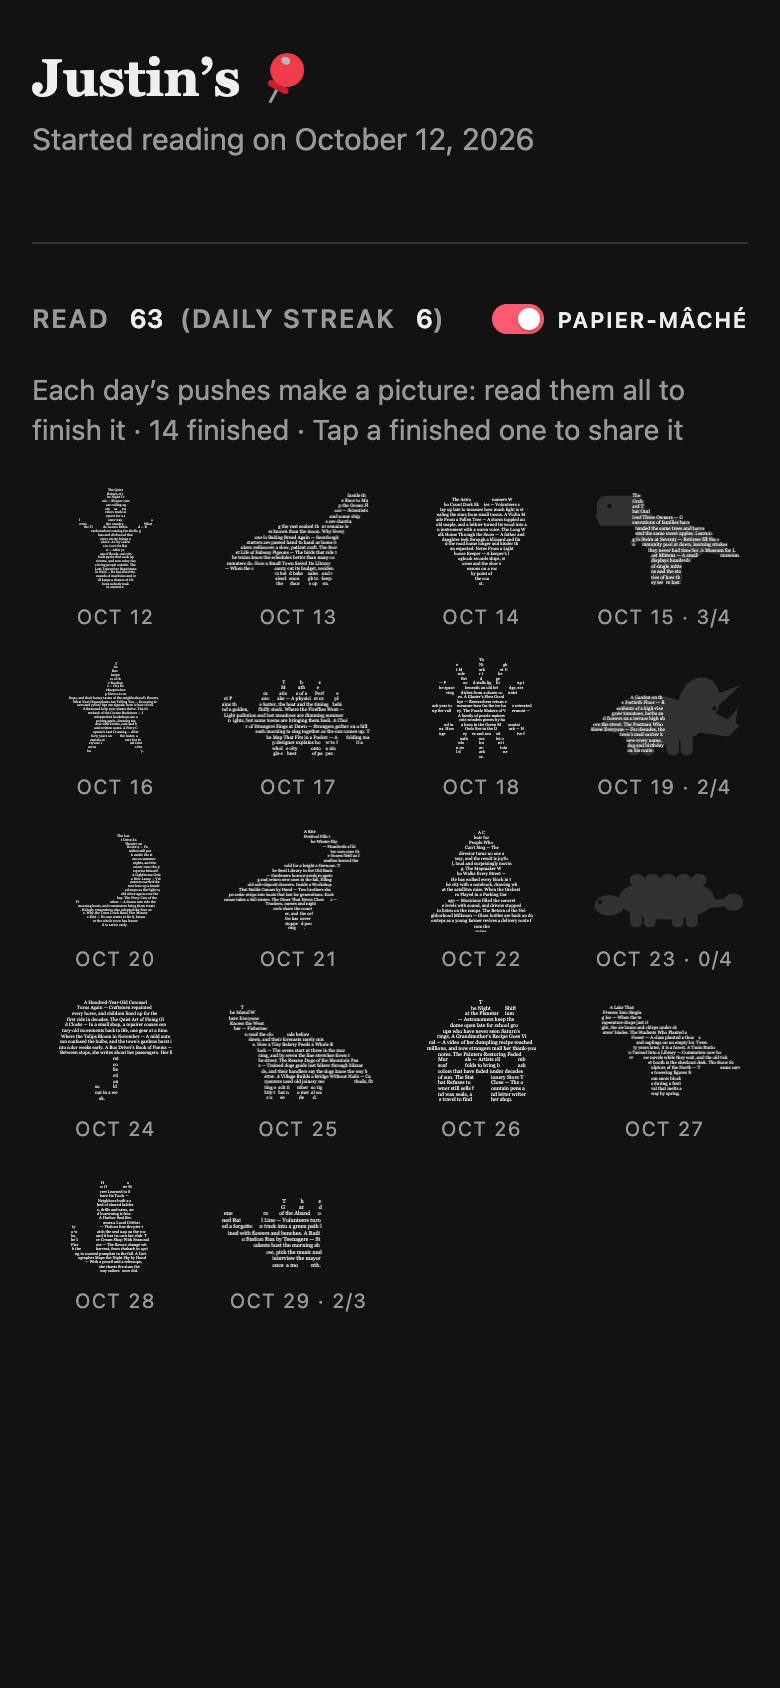
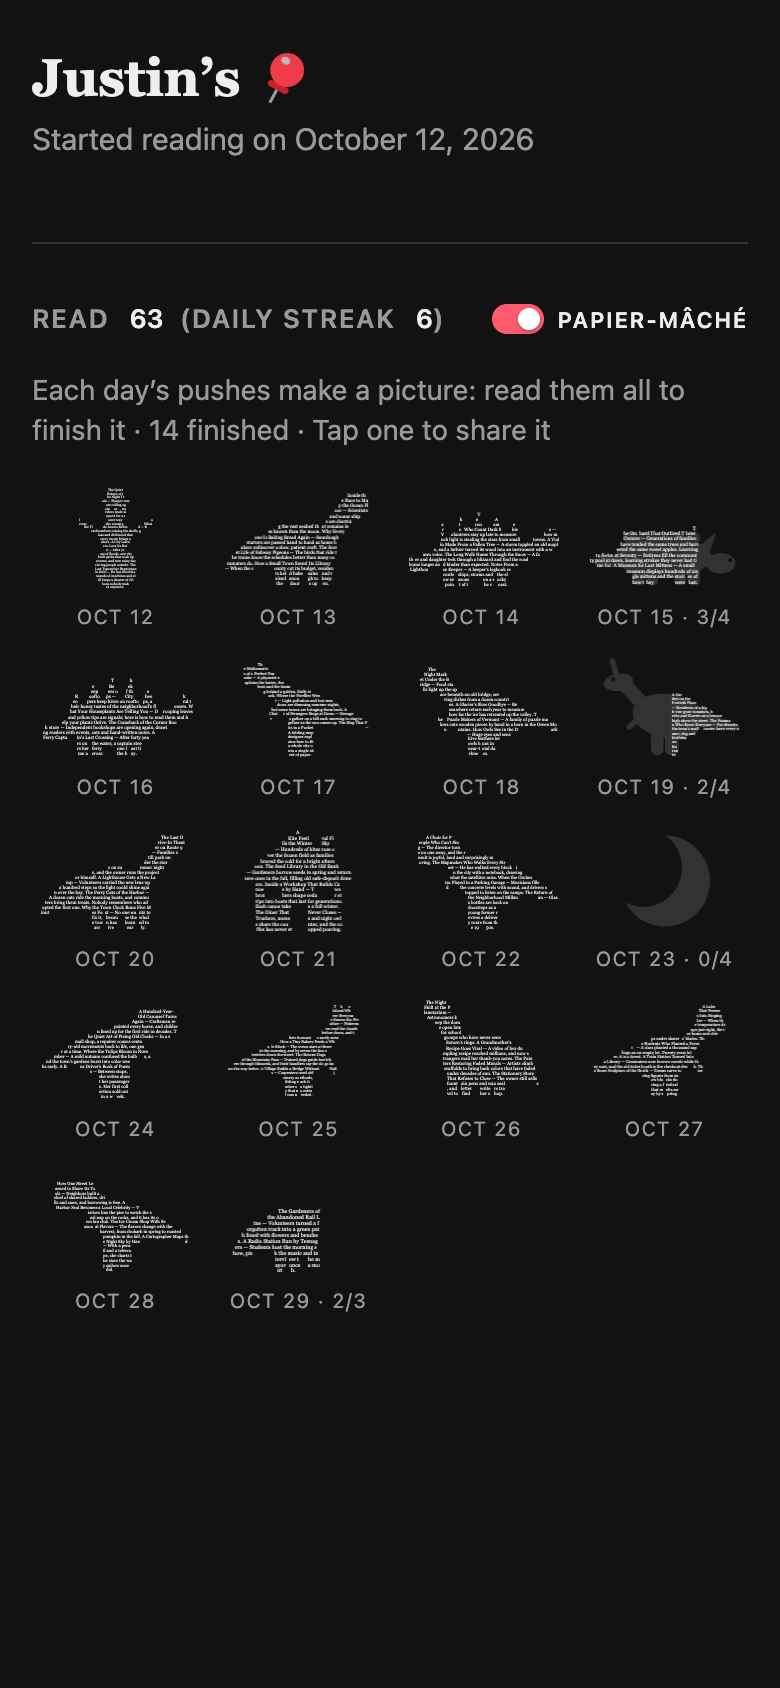
Daily pictures: the date picks the shape (same for everyone that day, snowman and Brontosaurus first, then a fixed shuffle); any day with reads can be shared (unfinished: the revealed part); die-cut traced around the solid shape (no dark lines under the house's door)

diff --git a/src/pushpin/cards.py b/src/pushpin/cards.py
@@ -21,7 +21,6 @@ heavy). /u/<slug> is the profile for anyone with the link: the count and list on
 """
 
 import argparse
-import hashlib
 import html
 import json
 import os
@@ -289,7 +288,7 @@ def profile_page(reader: dict, read: list[dict], owner: bool, share_url: str = "
     # Read n (Daily streak d), with the Papier-mâché switch on the right, then the list. A private
     # list on a public link shows only that header: no titles, so no switch and no dinosaurs.
     shown = owner or public  # Papier-mâché only uses titles the page already shows
-    switch, hint, gallery = papier(read, days, papier_seed(reader), today or date.today()) if shown else ("", "", "")
+    switch, hint, gallery = papier(read, days, today or date.today()) if shown else ("", "", "")
     head = f'<div class="readhead"><h2>Read <span class="n">{n}</span>{on_a_roll}</h2>{switch}</div>'
     articles = (f'<div class="readpanel">{head}{hint}<ul class="list">{"".join(item(a, owner) for a in read)}</ul>'
                 f'{gallery}</div>' if read
@@ -473,8 +472,9 @@ const SYMBOLS = {
     L(c, 7, 100, 62, 100, 112); c.lineWidth = 7; c.beginPath(); c.arc(88, 112, 12, 0, Math.PI); c.stroke();
     return null;
   },
-  house(c) {
+  house(c, p) {
     R(c, 130, 14, 16, 34, 1); P(c, 100, 4, 172, 62, 28, 62); R(c, 44, 58, 112, 68, 2);
+    if (p.solid) return null;  // the sticker's die-cut: the whole house, door and windows on white
     c.globalCompositeOperation = 'destination-out'; R(c, 90, 90, 22, 36, 2); R(c, 56, 72, 22, 20, 2); R(c, 124, 72, 22, 20, 2);
     c.globalCompositeOperation = 'source-over'; return null;
   },
@@ -567,11 +567,9 @@ const KINDS = (() => {
   }
   return out;
 })();
-// Each reader's own herd: a seed from the reader shuffles the species into their own order and
-// stretches each dinosaur's proportions a little (the knobs below, 0.92-1.08x), so no two readers'
-// dinosaurs match. Without a seed (the demo), the fixed order above and the knobs as drawn.
-const JITTER = {sauropod: ['bulk', 'neck', 'tail', 'head'], theropod: ['bulk', 'head', 'neck', 'arm'],
-  stegosaur: ['plates'], ankylosaur: ['bumps'], ceratopsian: ['frill', 'brow', 'nose', 'bulk'], hadrosaur: ['bulk']};
+// The same picture for everyone on a given day: the date picks the shape, from one fixed order
+// that starts with the snowman and a Brontosaurus on Oct 12, 2026, then the rest shuffled once, so
+// every shape comes up before any repeats. What differs between readers is the words.
 function rng(str) {  // a small seeded generator (string hash + mulberry32): the same seed, the same numbers
   let h = 1779033703 ^ str.length;
   for (let i = 0; i < str.length; i++) { h = Math.imul(h ^ str.charCodeAt(i), 3432918353); h = h << 13 | h >>> 19; }
@@ -580,30 +578,40 @@ function rng(str) {  // a small seeded generator (string hash + mulberry32): the
     t = t + Math.imul(t ^ t >>> 7, 61 | t) ^ t; return ((t ^ t >>> 14) >>> 0) / 4294967296;
   };
 }
-function herd(seed) {
-  if (!seed) return k => KINDS[k % KINDS.length];
-  const order = KINDS.slice(), r = rng(seed);
-  for (let i = order.length - 1; i > 0; i--) { const j = Math.floor(r() * (i + 1)); [order[i], order[j]] = [order[j], order[i]]; }
-  return k => {
-    const kind = order[k % order.length], rk = rng(seed + ':' + k), knobs = {...kind.knobs};
-    for (const key of JITTER[kind.plan] || []) knobs[key] = (knobs[key] ?? 1) * (0.92 + 0.16 * rk());
-    return {...kind, knobs};
-  };
-}
+const ORDER = (() => {
+  const first = ['Snowman', 'Brontosaurus'].map(n => KINDS.find(k => k.name === n));
+  const rest = KINDS.filter(k => !first.includes(k)), r = rng('pushpin:order');
+  for (let i = rest.length - 1; i > 0; i--) { const j = Math.floor(r() * (i + 1)); [rest[i], rest[j]] = [rest[j], rest[i]]; }
+  return [...first, ...rest];
+})();
+const EPOCH = Date.UTC(2026, 9, 12);
+const kindFor = day => {  // day: YYYY-MM-DD
+  const n = Math.round((Date.UTC(+day.slice(0, 4), +day.slice(5, 7) - 1, +day.slice(8, 10)) - EPOCH) / 864e5);
+  return ORDER[((n % ORDER.length) + ORDER.length) % ORDER.length];
+};
 // ---- end species ----
-function dino(c, w, h, flip, kind) {
+function dino(c, w, h, flip, kind, solid = false) {  // solid: no holes (eyes, door, windows), for a die-cut
   c.save();
   const s = Math.min(w / 200, h / 130);
   c.translate((w - 200 * s) / 2, (h - 130 * s) / 2);
   if (flip) { c.translate(200 * s, 0); c.scale(-1, 1); }
   c.scale(s, s);
   c.fillStyle = c.strokeStyle = '#000';
-  const eye = PLANS[kind.plan](c, kind.knobs);  // [x, y], a list of them, or null
+  const eye = solid ? (PLANS[kind.plan](c, {...kind.knobs, solid}), null) : PLANS[kind.plan](c, kind.knobs);  // [x, y], a list, or null
   c.globalCompositeOperation = 'destination-out';
   for (const [x, y] of eye ? (Array.isArray(eye[0]) ? eye : [eye]) : []) { c.beginPath(); c.arc(x, y, 2.8, 0, 7); c.fill(); }
   c.restore();
 }
 // Lays the words out inside the dinosaur's silhouette, w x h: [char, x, y] for each glyph.
+// Unfinished: only part of the shape is revealed, from one side, as far as the day's pushes have
+// been read. Returns the test for the revealed part and where it ends (x), or null when it's whole.
+function revealed(shape, W, H, built, flip) {
+  if (built >= 1) return {inside: shape, edge: null};
+  let x0 = W, x1 = 0;
+  for (let y = 0; y < H; y += 2) for (let x = 0; x < W; x++) if (shape(x, y)) { x0 = Math.min(x0, x); x1 = Math.max(x1, x); }
+  const edge = flip ? x1 - (x1 - x0) * built : x0 + (x1 - x0) * built;
+  return {inside: (x, y) => shape(x, y) && (flip ? x >= edge : x <= edge), edge};
+}
 // Where the shape is, w x h: a test for whether a pixel is inside it.
 function silhouette(w, h, flip, kind) {
   const m = document.createElement('canvas'); m.width = w; m.height = h;
@@ -689,12 +697,8 @@ function draw(canvas, text, built, flip, animate, kind, delay, past) {
     lines.forEach((line, k) => c.fillText(line, W / 2, H / 2 + (k - (lines.length - 1) / 2) * size * 1.25));
     return;
   }
-  // Unfinished: only part of the shape is revealed, from one side, as far as the day's pushes have
-  // been read, and the read text fills just that part. Nothing else shows, so it's a guess what it is.
-  let x0 = W, x1 = 0;
-  for (let y = 0; y < H; y += 2) for (let x = 0; x < W; x++) if (shape(x, y)) { x0 = Math.min(x0, x); x1 = Math.max(x1, x); }
-  const edge = flip ? x1 - (x1 - x0) * built : x0 + (x1 - x0) * built;
-  const inside = built >= 1 ? shape : (x, y) => shape(x, y) && (flip ? x >= edge : x <= edge);
+  // Unfinished: only part of the shape is revealed (see revealed), and the read text fills just that part.
+  const inside = revealed(shape, W, H, built, flip).inside;
   const {glyphs, fs} = fitted(W, H, text, inside, Math.round(W / 4));
   c.font = fs + 'px Georgia, "Times New Roman", serif'; c.textBaseline = 'middle'; c.fillStyle = ink;
   const start = performance.now() + delay, sweep = animate ? 600 : 0, fade = animate ? 240 : 0;
@@ -725,8 +729,8 @@ let pinImage = null;
 const pinIcon = () => pinImage ??= new Promise(ok => {
   const im = new Image(); im.onload = () => ok(im); im.onerror = () => ok(null); im.src = '/icon.png';
 });
-async function sticker(day, kind) {
-  const W = 1200, H = 768, shape = silhouette(W, H, day.flip, kind);
+async function sticker(day, kind, built = 1) {  // an unfinished day: just the part revealed so far
+  const W = 1200, H = 768, {inside: shape, edge} = revealed(silhouette(W, H, day.flip, kind), W, H, built, day.flip);
   const {glyphs, fs} = fitted(W, H, day.text, shape, Math.round(W / 4));
   let x0 = W, x1 = 0, y0 = H, y1 = 0;
   for (let y = 0; y < H; y += 2) for (let x = 0; x < W; x += 2) if (shape(x, y)) {
@@ -735,7 +739,8 @@ async function sticker(day, kind) {
   const B = 26, P = B + 34, ox = P - x0, oy = P - y0;  // border, then room for the shadow
   const out = document.createElement('canvas'); out.width = x1 - x0 + 2 * P; out.height = y1 - y0 + 2 * P;
   const mask = document.createElement('canvas'); mask.width = W; mask.height = H;
-  dino(mask.getContext('2d'), W, H, day.flip, kind);
+  const mc = mask.getContext('2d'); dino(mc, W, H, day.flip, kind, true);  // traced around the solid shape
+  if (edge !== null) day.flip ? mc.clearRect(0, 0, edge, H) : mc.clearRect(edge, 0, W - edge, H);
   const cut = document.createElement('canvas'); cut.width = out.width; cut.height = out.height;
   const cc = cut.getContext('2d');
   for (let a = 0; a < 48; a++) cc.drawImage(mask, ox + B * Math.cos(a * Math.PI / 24), oy + B * Math.sin(a * Math.PI / 24));
@@ -751,7 +756,7 @@ async function sticker(day, kind) {
   return out;
 }
 let sheet = null;
-function share(day, kind) {
+function share(day, kind, built = 1) {
   if (!sheet) {
     sheet = document.createElement('dialog'); sheet.className = 'sharecard';
     sheet.innerHTML = '<button type="button" class="x" aria-label="Close">×</button><img alt="">'
@@ -762,10 +767,10 @@ function share(day, kind) {
     document.body.append(sheet);
   }
   const img = sheet.querySelector('img'), go = sheet.querySelector('.go'), save = sheet.querySelector('.save'), copy = sheet.querySelector('.copy');
-  img.removeAttribute('src'); img.alt = 'A ' + kind.name + ' sticker made of the day’s articles';
+  img.removeAttribute('src'); img.alt = (built >= 1 ? 'A ' + kind.name : 'Part of a') + ' sticker made of the day’s articles';
   go.hidden = copy.hidden = true; save.removeAttribute('href'); copy.textContent = 'Copy';
   sheet.showModal();
-  sticker(day, kind).then(cv => {
+  sticker(day, kind, built).then(cv => {
     const url = cv.toDataURL('image/png'), name = 'pushpin-' + day.seed.split(':').pop() + '-' + kind.name.toLowerCase().replace(/[^a-z]+/g, '-') + '.png';
     img.src = url; save.href = url; save.download = name;
     cv.toBlob(b => {  // made before the tap on Share, which iOS needs to share a file
@@ -786,13 +791,12 @@ function share(day, kind) {
   });
 }
 // ---- end share card ----
-const kindOf = herd(data.dataset.seed || '');
 // A day's text: every read title, each followed by its abstract, and which way the shape faces.
 // The randomness (the facing here, which abstract words the shared text keeps) is seeded by the
 // reader and the day, so a picture is the same each time it's drawn and differs between days and
 // between readers who read the same articles the same day.
 function dayText(d) {
-  const seed = (data.dataset.seed || 'demo') + ':' + d.day, r = rng(seed);
+  const seed = 'pushpin:' + d.day, r = rng(seed);  // the same for everyone that day
   const flip = r() < 0.5;
   const parts = d.titles.map((title, i) => ({title, words: ((d.abstracts || [])[i] || '').split(/\\s+/).filter(Boolean)}));
   const last = parts[parts.length - 1];  // it ends with a period
@@ -806,22 +810,22 @@ const MONTHS = ['Jan', 'Feb', 'Mar', 'Apr', 'May', 'Jun', 'Jul', 'Aug', 'Sep', '
 function build(animate) {
   box.innerHTML = '';
   days.forEach((d, k) => {  // one picture a day, oldest first, made of that day's read headlines
-    const kind = kindOf(k), day = dayText(d), done = d.sent > 0 && d.titles.length >= d.sent, built = d.sent ? Math.min(1, d.titles.length / d.sent) : 0;
+    const kind = kindFor(d.day), day = dayText(d), done = d.sent > 0 && d.titles.length >= d.sent, built = d.sent ? Math.min(1, d.titles.length / d.sent) : 0;
     const when = MONTHS[+d.day.slice(5, 7) - 1] + ' ' + +d.day.slice(8, 10);
     const fig = document.createElement('figure'), canvas = document.createElement('canvas'), cap = document.createElement('figcaption');
     canvas.setAttribute('role', 'img');
     canvas.setAttribute('aria-label', 'A ' + kind.name + ' for ' + when + ', ' + d.titles.length + ' of ' + d.sent + ' pushes read'
                         + (d.titles.length ? ': ' + d.titles.join('; ') : ''));
     cap.textContent = when + (done ? '' : ' · ' + d.titles.length + '/' + d.sent);
-    if (done) {  // finished: tap to share it
+    if (built > 0) {  // something read: tap to share it (unfinished, just the part revealed so far)
       const tap = document.createElement('button');
-      tap.type = 'button'; tap.className = 'dino'; tap.title = kind.name + ' · ' + when;
-      tap.setAttribute('aria-label', 'Share the ' + kind.name + ' for ' + when);
-      tap.append(canvas); tap.addEventListener('click', () => share(day, kind));
+      tap.type = 'button'; tap.className = 'dino'; tap.title = (done ? kind.name + ' · ' : '') + when;
+      tap.setAttribute('aria-label', 'Share the ' + (done ? kind.name : 'picture') + ' for ' + when);
+      tap.append(canvas); tap.addEventListener('click', () => share(day, kind, built));
       fig.append(tap);
     } else {
-      const still = document.createElement('div');  // not finished: nothing to share yet
-      still.className = 'dino still'; still.title = 'Read the rest of ' + when + '’s pushes to finish it';
+      const still = document.createElement('div');  // nothing read: nothing to share yet
+      still.className = 'dino still'; still.title = 'Read ' + when + '’s pushes to make its word art';
       still.append(canvas); fig.append(still);
     }
     fig.append(cap); box.append(fig);
@@ -849,13 +853,6 @@ let t; window.addEventListener('resize', () => { clearTimeout(t); t = setTimeout
 })();</script>"""
 
 
-def papier_seed(reader: dict) -> str:
-    """The seed for a reader's own dinosaurs: from their id, which is their cookie, so it's hashed
-    (the page can be public); "" without one (the demo: the fixed order)."""
-    rid = reader.get("reader_id")
-    return hashlib.sha256(f"papier:{rid}".encode()).hexdigest()[:16] if rid else ""
-
-
 def papier_days(read: list[dict]) -> list[dict]:
     """Days from the reads alone, when the pushes sent aren't known: every day with reads, finished."""
     out: dict[str, dict] = {}
@@ -868,12 +865,11 @@ def papier_days(read: list[dict]) -> list[dict]:
     return list(out.values())
 
 
-def papier(read: list[dict], days: list[dict] | None = None, seed: str = "",
-           today: date | None = None) -> tuple[str, str, str]:
+def papier(read: list[dict], days: list[dict] | None = None, today: date | None = None) -> tuple[str, str, str]:
     """Papier-mâché for a Read list the page shows: the switch for the panel's header, the
     instructions (shown when it's on), and the pictures' container with their days and script.
     One picture a day, made of that day's read headlines and filled in as they're read: reading
-    all of the day's pushes finishes it. `seed` picks the reader's own order (see papier_seed)."""
+    all of the day's pushes finishes it. The date picks the shape, the same for everyone that day."""
     if not read:
         return "", "", ""
     days = days if days is not None else papier_days(read)
@@ -883,9 +879,9 @@ def papier(read: list[dict], days: list[dict] | None = None, seed: str = "",
     switch = ('<button type="button" class="pm" id="papier-on" aria-pressed="false">'
               '<span class="track"><span class="knob"></span></span>Papier-mâché</button>')
     hint = (f'<p class="papier-hint" hidden>Each day’s pushes make a picture: read them all to finish it · '
-            f'{done} finished · Tap a finished one to share it</p>')
+            f'{done} finished · Tap one to share it</p>')
     gallery = (f'<div class="papier" id="papier" hidden></div>'
-               f'<script type="application/json" id="papier-data" data-seed="{html.escape(seed)}" '
+               f'<script type="application/json" id="papier-data" '
                f'data-today="{(today or date.today()).isoformat()}">{data}</script>{PAPIER_SCRIPT}')
     return switch, hint, gallery
 

diff --git a/tests/test_notifier.py b/tests/test_notifier.py
@@ -529,7 +529,7 @@ def test_papier_mache_only_with_a_visible_read_list():
     assert 'id="papier-on"' in own and "Each day’s pushes make a picture: read them all to finish it · 7 finished" in own
     head = re.search(r'<div class="readhead">.*?</div>', own).group(0)
     assert 'id="papier-on"' in head and 'class="papier-hint" hidden' in own  # switch in the Read header; hint until on
-    assert "Tap a finished one to share it" in own and "async function sticker(day, kind)" in own  # a finished one shares as a sticker
+    assert "Tap one to share it" in own and "async function sticker(day, kind, built = 1)" in own  # a finished one shares as a sticker
     assert "new ClipboardItem({'image/png': b})" in own and "textDino" not in own  # Copy copies the image; no text version
     assert "save.onclick" in own and "(pointer: coarse)" in own  # on a phone, Save goes through the share sheet (Save Image → Photos)
     assert "snowman(c)" in own and "Lightning bolt" in own  # common symbols, not just dinosaurs
@@ -585,7 +585,7 @@ def test_demo_page_shows_dinosaurs_and_stores_nothing(setup):
     assert len(data) == 18 and {"day": "2026-10-23", "sent": 4, "titles": [], "abstracts": []} in data  # a day with nothing read
     assert 'data-today="2026-10-29"' in page  # a past day with nothing read shows its outline; today shows a nudge
     assert all(len(d["abstracts"]) == len(d["titles"]) and all(d["abstracts"]) for d in data)  # titles and abstracts
-    assert "function dayText(d)" in page and "const seed = (data.dataset.seed || 'demo') + ':' + d.day, r = rng(seed)" in page  # seeded per reader and day
+    assert "function dayText(d)" in page and "const seed = 'pushpin:' + d.day" in page  # seeded by the day, the same for everyone
     assert store.reader_count() == 0 and db("SELECT COUNT(*) AS n FROM interactions")["n"].item() == 0
 
 
@@ -594,13 +594,12 @@ def test_demo_streak_differs_from_the_count():
     assert '<h2>Read <span class="n">63</span> <span class="streak">(Daily streak <span class="n">6</span>)</span></h2>' in page
 
 
-def test_each_reader_gets_their_own_dinosaurs():
+def test_everyone_gets_the_same_shape_each_day():
     read = [{"news_id": f"N{i}", "title": f"T{i}", "url": "u", "section": None, "read_at": f"2026-11-0{1 + i % 9}"}
             for i in range(10)]
-    seed = re.compile(r'id="papier-data" data-seed="([^"]*)"')
-    a = seed.search(cards.profile_page({"reader_id": "aaaa", "history_public": 0}, read, owner=True)).group(1)
-    b = seed.search(cards.profile_page({"reader_id": "bbbb", "history_public": 0}, read, owner=True)).group(1)
-    public = seed.search(cards.profile_page({"reader_id": "aaaa", "history_public": 1}, read, owner=False)).group(1)
-    assert a and b and a != b and public == a  # own herd, the same on the public link
-    assert "aaaa" not in a  # the id is the reader's cookie: hashed, never on the page
-    assert seed.search(cards.demo_page()).group(1) == ""  # the demo keeps the fixed order
+    a = cards.profile_page({"reader_id": "aaaa", "history_public": 0}, read, owner=True)
+    b = cards.profile_page({"reader_id": "bbbb", "history_public": 0}, read, owner=True)
+    data = re.compile(r'<script type="application/json" id="papier-data"[^>]*>')
+    assert data.search(a).group(0) == data.search(b).group(0) and "data-seed" not in a  # nothing per reader
+    assert "aaaa" not in a.split('id="papier-data"')[1]  # the reader's id (their cookie) isn't on the page
+    assert "const kind = kindFor(d.day)" in a and "rng('pushpin:order')" in a  # the date picks the shape
